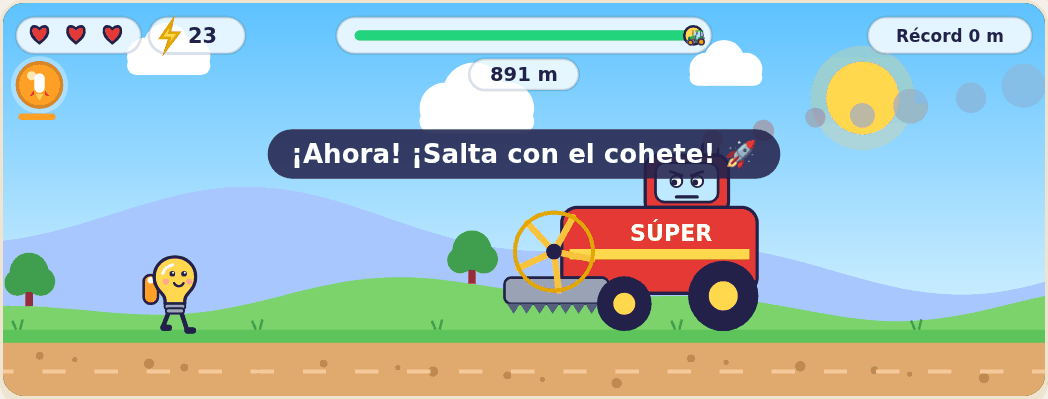
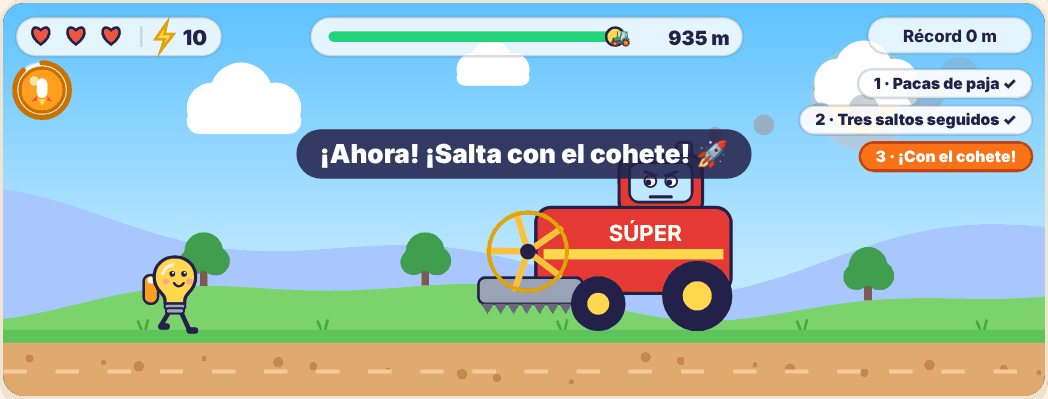
README, screenshots and changelog for 1.2.0
- README piece by piece for v3: red light / green light under the traffic
  light, the clap duel under the sound meter, the ghost hunt under the
  detector, and ¡Salta, Chispa! with its worlds, the final in phases, two
  players, class records, colours, stickers and «⚡ cuando…» blocks. The
  API table gains /api/records and /api/record, the tree records.h and
  alias.h; sizes (301 kB → 87 kB), the test count (159) and the English
  summary are updated.
- Eighteen screenshots from tools/capturas.py, each one checked: the ten
  old ones retaken and eight new ones (game start, two players, end screen
  with the class records, the Jugar tab, the game's blocks, the clap duel,
  the ghost hunt and red light, green light). The duel shot waits for the
  green team's turn exactly (:has-text ignores case, so «Ahora, el verde»
  matched «AHORA»), and records use the English world names.
- CHANGELOG 1.2.0 lists what was fixed on top of the design, the board's
  10 s flash write limit and the English world names; the flying exam can
  be ducked or jumped; only the duel and the hunt bring a reto.
- docs/BLOQUES.md: the README link pointed to a heading that no longer
  existed.

Claude-Session: https://claude.ai/code/session_01RJoaHUe8PALv4gDZD8JRxT

diff --git a/tools/capturas.py b/tools/capturas.py
@@ -158,7 +158,7 @@ def main() -> int:
             pg.close()
 
             # v3: el final de una partida que entra en los récords de la clase.
-            for alias, m, extra in (("Rayo", 906, ""), ("Cometa", 640, "&t=1"), ("Trueno", 512, "&w=granja"), ("Pulga", 330, "")):
+            for alias, m, extra in (("Rayo", 906, ""), ("Cometa", 640, "&t=1"), ("Trueno", 512, "&w=farm"), ("Pulga", 330, "")):
                 sim(f"/api/record?alias={alias}&m={m}{extra}")
             pg = page(QUIET, "/juego?prueba=1&semilla=3", height=760)
             pg.click("#start-btn")

diff --git a/README.md b/README.md
@@ -3,18 +3,18 @@
 Tres inventos y un juego para niños y niñas con una placa **NodeMCU
 (ESP8266)**, de la familia de herramientas **zlecitool** de **tuisku**
 ([tuisku.eu](https://tuisku.eu)): un **semáforo**, un **sonómetro**, un
-**detector de fantasmas** y **¡Salta, Chispa!**, un juego que se juega con la
-placa. Todo se maneja desde el móvil, la tableta o el ordenador, y se
+**detector de fantasmas** (cada uno con sus juegos) y **¡Salta, Chispa!**, un
+juego de correr y saltar que se juega con la placa, solo o de dos en dos. Todo se maneja desde el móvil, la tableta o el ordenador, y se
 **programa con bloques, como en Scratch**. La web vive dentro de la placa: no
 hace falta internet, ni cuentas, ni instalar nada.
 
 ![La portada, servida por la placa: los tres inventos y el juego](docs/img/portada.png)
 
 *La portada, tal como la sirve la placa en su propia wifi. Chispa, la
-bombilla, es la mascota. Toda la web (62 kB comprimidos) está dentro del
+bombilla, es la mascota. Toda la web (87 kB comprimidos) está dentro del
 firmware.*
 
-Este README va con la versión **1.1.0** (ver [CHANGELOG.md](CHANGELOG.md)).
+Este README va con la versión **1.2.0** (ver [CHANGELOG.md](CHANGELOG.md)).
 Hoy el Laboratorio funciona solo, sin el núcleo `zlecitool-core`; cómo
 entraría en la plataforma está en [docs/PLATAFORMA.md](docs/PLATAFORMA.md).
 
@@ -28,8 +28,9 @@ entraría en la plataforma está en [docs/PLATAFORMA.md](docs/PLATAFORMA.md).
 
 ## Qué hace, pieza a pieza
 
-Cada invento tiene tres pestañas: **Jugar**, **Programar** (con cinco retos) y
-**Montar** (con el dibujo de los cables). En cada pieza, «Se monta» dice lo
+Cada invento, y también el juego, tiene tres pestañas: **Jugar**,
+**Programar** (con cinco o seis retos) y **Montar** (con el dibujo de los
+cables). En cada pieza, «Se monta» dice lo
 que hay que conectar a la placa. Todo vive a la vez en la misma placa y con
 las mismas tres luces: se monta una vez y se pasa de un invento a otro sin
 desmontar nada.
@@ -44,9 +45,17 @@ peatones se pone verde y el zumbador pita para quien no ve.
 
 ![El semáforo con el rojo y el peatón en verde, y los modos](docs/img/semaforo.png)
 
+Y un juego para moverse: **🟢🔴 Luz roja, luz verde**. Se empieza a más de
+40 cm de la placa; en verde se avanza hacia ella y en rojo, ¡quieto! El sensor
+de distancia hace de árbitro: si en rojo te mueves más de 6 cm, vuelta a la
+salida. Gana quien llega a 12 cm, y el mejor tiempo queda de récord.
+
+![Luz roja, luz verde: en verde, a 54 cm de la placa y avanzando](docs/img/luzroja.png)
+
 **Se monta:** tres LEDs, cada uno con su resistencia de 220 Ω, en D5 (rojo),
 D6 (amarillo) y D7 (verde); el zumbador en D8, si se quiere sonido. El botón
-de peatones ya está en la placa.
+de peatones ya está en la placa. Para «Luz roja, luz verde», el sensor de
+distancia del detector de fantasmas.
 
 ### 🧩 Programar con bloques
 
@@ -58,8 +67,10 @@ que va por ahí brilla, como en Scratch. Por familias y con sus colores:
 el botón, a que haya ruido o a que algo se acerque; «si el ruido es…», «si
 algo está a menos de…»). Los bucles dicen por qué vuelta van; lo que nunca
 llegará a ejecutarse (debajo de un «por siempre») sale en gris. Cada invento
-enseña sus bloques, trae un ejemplo y cinco retos con estrellas. El programa
-se guarda en el navegador.
+enseña sus bloques, trae un ejemplo y sus retos con estrellas. En el juego
+hay además ⚡ eventos, «cuando Chispa salte, choque, coja un rayo…», que
+esperan cada uno por su cuenta a la vez que el resto del programa. El
+programa se guarda en el navegador.
 
 ![El editor de bloques ejecutando el semáforo de ejemplo: «esperar 3 segundos» brilla y el bucle va por la vuelta 1 de 3](docs/img/bloques.png)
 
@@ -70,10 +81,15 @@ se guarda en el navegador.
 Una aguja de 0 a 100 (como los decibelios: el oído va a saltos), la cara de
 Chispa, una gráfica de los últimos 30 segundos y, en la placa, las luces del
 semáforo: verde, amarillo o rojo según el ruido. Los colores y la
-sensibilidad se ajustan con deslizadores. Dos juegos: el **reto del
-silencio** (diez segundos sin llegar al amarillo) y el **récord de palmada**.
+sensibilidad se ajustan con deslizadores. Tres juegos: el **reto del
+silencio** (diez segundos sin llegar al amarillo), el **récord de palmada** y
+el **⚔ duelo de palmadas**: dos equipos se turnan para dar la palmada más
+fuerte, a tres rondas, y la luz de la placa dice quién va ganando (amarilla
+si hay empate).
 
 ![El sonómetro: la aguja, la gráfica con una palmada y las luces de la placa](docs/img/sonometro.png)
+
+![El duelo de palmadas: el rojo ha hecho 88 y le toca al verde](docs/img/duelo.png)
 
 **Se monta:** un micrófono con amplificador (MAX4466 o MAX9814; también valen
 los KY-038, que oyen menos): OUT en A0, VCC en 3V3 y GND en GND.
@@ -83,9 +99,12 @@ los KY-038, que oyen menos): OUT en A0, VCC en 3V3 y GND en GND.
 Un radar de ultrasonidos: cuanto más cerca está algo, más **energía
 espectral** (de 0 a 5), más se deja ver el fantasma y más deprisa pita la
 placa. A 5, «¡BUUU!» y un fantasma cazado (con su flash). Las distancias de
-«cerca» y «lejos» se ajustan.
+«cerca» y «lejos» se ajustan. En la **⏱ caza contrarreloj** hay un minuto para
+cazar todos los que se pueda, con el reloj y el marcador encima del radar.
 
 ![El detector a 9 cm: el radar, la energía al máximo y el fantasma](docs/img/fantasmas.png)
+
+![La caza contrarreloj: quedan 52 segundos y van tres fantasmas](docs/img/contrarreloj.png)
 
 **Se monta:** un sensor HC-SR04: VCC en VIN (5 V), GND en GND, TRIG en D1 y
 ECHO en D2 pasando por una resistencia de 1 kΩ, con otra de 2 kΩ de D2 a GND
@@ -97,19 +116,44 @@ VCC en 3V3 y ECHO directo a D2.
 Como el dinosaurio de Chrome cuando no hay internet, pero con Chispa, dibujos
 de colores, día y noche, y **mandos de verdad**: el **botón FLASH** de la
 placa, una **palmada** o la **mano** a menos de 15 cm del sensor (y siempre
-tocando la pantalla o con la barra espaciadora). Salen cosas que no apetecen:
-cactus, deberes, brócoli, el libro de mates, un coche con prisa y el
-**Nubarrón**, que tira exámenes desde arriba. Ayudan tres poderes (escudo,
-cohete y cámara lenta) y hay rayos para coger; tres vidas. A los 800 m llega
-la **Súper Cosechadora**: sólo se salta con el cohete, y es el final de la
-demo. Mientras nadie juega, la pantalla de inicio juega sola. Las luces de la
-placa van con la partida: verde corriendo, amarillo con un poder, rojo al
-chocar.
+tocando la pantalla o con la barra espaciadora). Con la mano entre 15 y 30 cm
+(o la flecha ↓, o «Agáchate»), Chispa **se agacha** y el examen volador le
+pasa por encima (también se puede saltar). Salen cosas que no apetecen: cactus, deberes, brócoli, el
+libro de mates, un coche con prisa y el **Nubarrón**, que tira exámenes desde
+arriba. Ayudan tres poderes (escudo, cohete y cámara lenta) y hay rayos para
+coger; tres vidas, o cinco en **🐢 modo tortuga**, que va más despacio.
+Mientras nadie juega, la pantalla de inicio juega sola. Las luces de la placa
+van con la partida: verde corriendo, amarillo con un poder, rojo al chocar.
+
+- **Tres mundos:** el campo 🌵, la granja 🐔 y la luna 🌙, donde se salta más
+  alto. Cada uno tiene sus obstáculos, y ganar uno abre el siguiente.
+- **El final, por fases.** A los 800 m llega la **Súper Cosechadora**: primero
+  tira pacas de paja, luego pide tres saltos seguidos y al final sólo se salta
+  con el cohete. Al ganar, de una a tres estrellas según los rayos cogidos.
+- **Dos jugadores**, con la pantalla partida: el 1 salta con el botón (o la
+  tecla A) y el 2 con palmadas (o la L). Gana quien llegue más lejos.
+- **Récords de la clase:** quien entra entre los cinco mejores pone un alias
+  (nunca el nombre de verdad), y la placa los guarda en su memoria flash: se
+  ven desde cualquier tableta y duran aunque se desenchufe.
+- **Para coleccionar:** los rayos de todas las partidas abren **colores de
+  Chispa**, y hay **nueve pegatinas** que ganar.
+- **Se programa:** con bloques «⚡ cuando…», por ejemplo que la luz verde se
+  encienda en cada salto y la roja pite en cada choque.
 
 <p>
+<img src="docs/img/juego-inicio.png" width="420" alt="El inicio: cuántos jugáis, a qué velocidad y en qué mundo; aquí, en la luna">
 <img src="docs/img/juego.png" width="420" alt="De noche, con el cohete: Chispa vuela entre rayos">
-<img src="docs/img/juego-cosechadora.png" width="420" alt="El final: la Súper Cosechadora y «¡Ahora! ¡Salta con el cohete!»">
 </p>
+<p>
+<img src="docs/img/juego-cosechadora.png" width="420" alt="El final, en su tercera fase: «¡Ahora! ¡Salta con el cohete!»">
+<img src="docs/img/juego-fin.png" width="420" alt="Fin de la partida: lo que te pilló, los metros y los récords de la clase, con el alias">
+</p>
+
+![Dos jugadores: arriba el del botón, abajo el de las palmadas](docs/img/juego-dos.png)
+
+![La pestaña Jugar: con qué saltas (con lo que oye y ve la placa), los colores de Chispa, las pegatinas y los récords](docs/img/juego-jugar.png)
+
+![Programar el juego: el ejemplo con dos bloques «⚡ cuando…»](docs/img/juego-bloques.png)
 
 **Se monta:** nada para el botón. Para la palmada, el micrófono del
 sonómetro; para la mano, el sensor del detector.
@@ -152,18 +196,26 @@ programa; el esquema se desliza de lado; el juego pide girar el móvil.
   (`ESP8266WebServer`, `DNSServer`, `ESP8266mDNS`): cargarlo es abrir el
   `.ino` y pulsar «Subir». Compila con la 3.1.2 y con la 2.7.4.
 - **La web, dentro del firmware:** se escribe en `web/` como ficheros normales
-  y `tools/build_web.py` la comprime (211 kB → 62 kB) en
+  y `tools/build_web.py` la comprime (301 kB → 87 kB) en
   `laboratorio/web_pages.h`, con su ETag (el móvil no la vuelve a bajar si no
   ha cambiado). Nada viene de internet: ni fuentes ni librerías.
 - **Las palmadas,** en cada lectura del micrófono (no cada 150 ms): en el
   juego, saltar tarde es chocar.
+- **Los récords de la clase, en la flash:** en la «EEPROM» que trae el núcleo
+  ESP8266 (sin librerías aparte). Sólo se escribe cuando alguien entra entre
+  los cinco. El alias se limpia en la placa (sin `<>"&`, 12 letras como
+  mucho, contando bien la «ñ» y los emojis), y se borran con
+  `/api/records?clear=1`.
 - **El simulador** (`tools/simulador.py`): la misma lógica que el firmware, en
   Python, con un micrófono y un sensor de mentira. Sirve para tocar la web sin
   placa y para las pruebas.
-- **Las pruebas:** 78, con pytest y Chromium: que el firmware, el simulador y
-  la web dicen lo mismo (las órdenes, la forma del estado, los ajustes), los
-  bloques ejecutándose, el juego con cada mando (hasta ganar a la
-  cosechadora), y que nada se sale de un móvil de 360 px.
+- **Las pruebas:** 159, con pytest y Chromium: que el firmware, el simulador y
+  la web dicen lo mismo (las órdenes, la forma del estado, los ajustes; el
+  alias de los récords se compara compilando el del firmware), los bloques
+  ejecutándose (también los «⚡ cuando…» a la vez), el juego con cada mando y
+  cada idea nueva (dos jugadores, mundos, tortuga, agacharse, récords,
+  pegatinas, el final por fases), los juegos de cada invento, y que nada se
+  sale de un móvil de 360 px.
 - **La API,** para programarla desde fuera ([abajo](#la-api)).
 
 ## Cómo se monta
@@ -227,6 +279,8 @@ probar escribiéndolas en el navegador.
 | `/api/beep?hz=880&ms=200` | Un pitido o una nota en el zumbador. |
 | `/api/walk` | Como pulsar el botón FLASH. |
 | `/api/settings?soundRed=80&ghostNear=25…` | Cambia los ajustes que se nombran. |
+| `/api/records` | Los récords de la clase de ¡Salta, Chispa!: los cinco mejores. Con `clear=1`, los borra. |
+| `/api/record?alias=Rayo&m=906&t=0&w=field` | Un récord nuevo: `t=1` si es en modo tortuga; `w`, el mundo (`field`, el campo; `farm`, la granja; `moon`, la luna). Contesta la lista y el puesto (0 si no entra). |
 | `/api` | Esta lista. |
 
 ```python
@@ -265,6 +319,8 @@ laboratorio/           el firmware (una pestaña del IDE por parte)
 ├── ghost.h            👻 el sensor de distancia
 ├── buzzer.h           🔊 el zumbador
 ├── network.h          📶 la wifi, el portal cautivo y laboratorio.local
+├── records.h          🏆 los récords de la clase, en la flash
+├── alias.h            ✏ cómo se limpia el alias de un récord (sin nada de Arduino)
 ├── web_api.h          🌐 la web y la API
 └── web_pages.h        la web comprimida (generada: no se toca)
 web/                   la web: una página por invento, el juego y lo común
@@ -276,7 +332,7 @@ tools/
 ├── build_web.py       web/ → laboratorio/web_pages.h (y --check)
 ├── simulador.py       la placa en Python, para probar sin ella
 └── capturas.py        las capturas de este README
-tests/                 firmware ↔ simulador ↔ web, las páginas y el juego en Chromium
+tests/                 firmware ↔ simulador ↔ web, los récords, las páginas y los juegos en Chromium
 docs/                  PLATAFORMA, BLOQUES, NUEVO_INVENTO; docs/img/, las capturas
 .github/workflows/     las pruebas y la compilación del firmware en cada push
 ```
@@ -299,12 +355,16 @@ firmware para la NodeMCU con `arduino-cli`. En rojo no se sube nada encima.
 **English summary.** A kids' lab for a NodeMCU (ESP8266) board, part of the
 tuisku zlecitool family: a traffic light, a sound meter and a "ghost
 detector" (an ultrasonic distance sensor), all on the same board and the same
-three LEDs, plus a Chrome-dino-style runner game played with the board's
-FLASH button, a clap or a hand over the sensor. The board hosts its own Wi-Fi
+three LEDs, each with its own mini-games (a clap duel, a one-minute ghost
+hunt, red light / green light with the distance sensor), plus a
+Chrome-dino-style runner played with the board's FLASH button, a clap or a
+hand over the sensor: three worlds, a final boss in phases, two players,
+turtle mode, ducking, stickers, colours to unlock, and class records kept
+in the board's flash (/api/records, /api/record). The board hosts its own Wi-Fi
 with a captive portal and serves a kid-friendly web app (Spanish) with live
 controls, wiring diagrams and a Scratch-like block editor that runs sequences
 on the board. No external Arduino libraries are needed. A JSON/CORS API makes
-it scriptable; a Python simulator and 78 pytest/Playwright tests cover the
-web, the API and the game. How it would join the zlecitool platform (boards
+it scriptable; a Python simulator and 159 pytest/Playwright tests cover the
+web, the API, the records and the games. How it would join the zlecitool platform (boards
 as core "devices", schools as organisations, AI that writes block programs):
 docs/PLATAFORMA.md.

diff --git a/CHANGELOG.md b/CHANGELOG.md
@@ -18,20 +18,35 @@ y crece con nueve ideas, y cada invento trae un juego nuevo.
   - **Récords de la clase**: los cinco mejores, con un alias.
   - **Colores de Chispa**, que se abren juntando rayos, y **nueve pegatinas**.
   - **Agacharse**: con la mano entre 15 y 30 cm del sensor, la flecha ↓ o el
-    botón «Agáchate». El examen volador sólo se esquiva así.
+    botón «Agáchate». Así pasa por encima el examen volador (o se salta).
   - **Modo tortuga**: más despacio y con cinco vidas.
   - **Programar el juego** con bloques: los nuevos «⚡ cuando Chispa salte,
     choque, coja un rayo…» funcionan a la vez que el resto del programa.
 - **Duelo de palmadas** en el sonómetro, **caza contrarreloj** en el detector
   de fantasmas y **luz roja, luz verde** en el semáforo (con el sensor de
-  distancia). Cada uno con su reto.
+  distancia). El duelo y la caza traen su reto.
 - **La placa guarda los récords de la clase** en su memoria flash: duran
-  aunque se desenchufe o se vuelva a cargar el firmware. Órdenes nuevas:
-  `/api/records` (con `clear=1`, los borra) y `/api/record`. El alias se
-  limpia igual en la placa y en el simulador: una prueba compila el del
-  firmware en el ordenador y los compara.
-- La web en la placa pasa de 62 a 86 kB comprimidos. El firmware usa el 37 %
-  de la flash.
+  aunque se desenchufe o se vuelva a cargar el firmware, y se escribe como
+  mucho una vez cada 10 segundos. Órdenes nuevas: `/api/records` (con
+  `clear=1`, los borra) y `/api/record` (los mundos, en inglés: `field`,
+  `farm` y `moon`). El alias se limpia igual en la placa y en el simulador:
+  una prueba compila el del firmware en el ordenador y los compara.
+- **Arreglado sobre el diseño**, con su prueba cada uno:
+  - en el móvil, los botones de las esquinas del inicio se pisaban y el cartel
+    se salía por los lados;
+  - con dos jugadores, la placa pitaba (y el micrófono lo oía como palmadas
+    del jugador 2) y la mano agachaba al jugador 1;
+  - si mientras jugabas otros llegaban más lejos, el final decía «Guardado en
+    la placa» sin estarlo; ahora la lista se pide otra vez al acabar;
+  - un «⚡ cuando…» arrastrado se quedaba dentro de un bucle, y «Parar» y
+    «Ejecutar» seguidos dejaban vivo un trozo del programa anterior;
+  - el cartel de la pegatina de los tres escudos no se veía;
+  - en el duelo, una revancha justo al acabar heredaba el parpadeo del
+    ganador; en «Luz roja, luz verde», a 40 cm justos se podía empezar y
+    Chispa no llegaba a celebrar la llegada.
+- La web en la placa pasa de 62 a 87 kB comprimidos. Con el núcleo 3.1.2, el
+  código en la flash pasa del 34 % al 37 % de su mega, y la RAM sigue en el
+  39 %.
 - Pruebas para todo lo nuevo; capturas y README al día.
 
 ## 1.1.0 — 2026-10-05

diff --git a/docs/BLOQUES.md b/docs/BLOQUES.md
@@ -44,7 +44,7 @@ color), sus partes (texto, desplegables, números) y qué hace al ejecutarse.
 
 Cualquier programa que sepa hacer una petición HTTP puede mandar en la placa:
 `/api/light?color=red&on=1`, `/api/state`… (la lista, en el
-[README](../README.md#la-api-para-mayores)). Contesta en JSON y lleva CORS
+[README](../README.md#la-api)). Contesta en JSON y lleva CORS
 (`Access-Control-Allow-Origin: *`), así que también se puede usar desde una web
 que no sea la de la placa.
 
